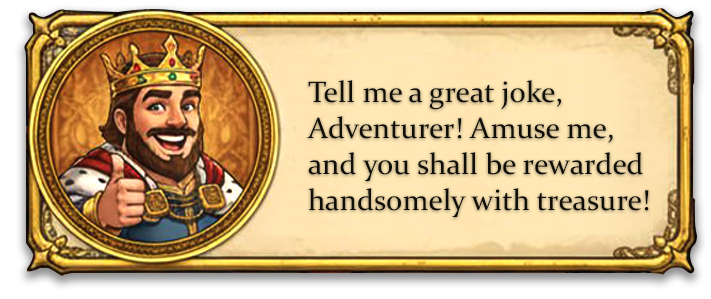
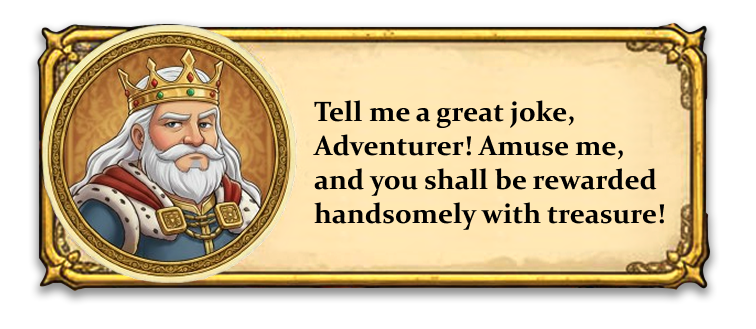
sdv

diff --git a/components/Hero2.js b/components/Hero2.js
@@ -8,6 +8,10 @@ import { ToastContainer, toast } from "react-toastify";
 // import { waitForTransactionReceipt } from "wagmi/actions";
 import { useWaitForTransactionReceipt } from "wagmi";
 import JokesTitle from "../public/assets/JokesTitle.png";
+import JokesTitleBad from "../public/assets/JokesTitleBad.png";
+import JokesTitleFunny from "../public/assets/JokesTitleFunny.png";
+import JokesTitleGood from "../public/assets/JokesTitleGood.png";
+import JokesTitleOkey from "../public/assets/JokesTitleOkey.png";
 import Image from "next/image";
 import JokesResult from "../public/assets/JokesResult.png";
 import StartButton from "../public/assets/SubmitButton.png";
@@ -49,6 +53,7 @@ export default function Hero() {
 	const tokenAddress = "0xAad8792DdDbE35e49D3E7b39359B6cBBDF712f0f";
 	const dispatch = useDispatch();
 	const [jokes, setJokes] = useState("");
+	const [titleImage, setTitleImage] = useState(JokesTitle);
 
 	const { data: tokenData } = useToken({
 		address: tokenAddress,
@@ -133,7 +138,7 @@ export default function Hero() {
 				toast.dark("Transaction failed on-chain.");
 			}
 		} catch (err) {
-			toast.dark(`Error: ${err.message || err}`);
+			toast.dark(`Transaction Failed`);
 		} finally {
 			setIsMinting(false);
 		}
@@ -149,6 +154,7 @@ export default function Hero() {
 		console.log(resp);
 		if (Number(resp.rating) < 5) {
 			toast.dark("Your joke is bad");
+			setTitleImage(JokesTitleBad);
 		} else if (
 			Number(resp.rating) === 5 ||
 			Number(resp.rating) === 7 ||
@@ -156,13 +162,18 @@ export default function Hero() {
 		) {
 			toast.dark("Your joke is okay");
 			sendTokenToMe("25");
+			setTitleImage(JokesTitleOkey);
 		} else if (Number(resp.rating) === 8 || Number(resp.rating) === 9) {
 			toast.dark("Your joke is good");
 			sendTokenToMe("100");
+			setTitleImage(JokesTitleGood);
 		} else {
 			toast.dark("Your joke is very funny!");
 			sendTokenToMe("300");
+			setTitleImage(JokesTitleFunny);
 		}
+
+		setJokes("");
 	}
 
 	return (
@@ -177,7 +188,7 @@ export default function Hero() {
 				className='flex flex-col items-center justify-center gap-6 w-full'
 			>
 				<Image
-					src={JokesTitle}
+					src={titleImage}
 					alt='Jokes title'
 					className='h-auto sm:!h-[30vh] w-[100%] sm:w-auto '
 				/>
@@ -186,6 +197,7 @@ export default function Hero() {
 					rows={2}
 					type='text'
 					placeholder='Tell your joke here…'
+					value={jokes}
 					onChange={(e) => setJokes(e.target.value)}
 					className='
             w-full max-w-md

diff --git a/components/Hero3.js b/components/Hero3.js
@@ -151,7 +151,7 @@ export default function Hero() {
 				toast.dark("Transaction failed on-chain.");
 			}
 		} catch (err) {
-			toast.dark(`Error: ${err.message || err}`);
+			toast.dark(`Transaction Failed`);
 		} finally {
 			setIsMinting(false);
 		}
@@ -209,7 +209,7 @@ export default function Hero() {
 				toast.dark("Mint transaction failed");
 			}
 		} catch (e) {
-			toast.dark(`Mint NFT error: ${e.message}`);
+			toast.dark(`Transaction Failed`);
 		} finally {
 			setIsMinting2(false);
 		}
@@ -235,7 +235,7 @@ export default function Hero() {
 			toast.dark(`0.1 HLUSD Sent!..`);
 			setIsMinting3(false);
 		} catch (e) {
-			toast.dark(`Error: ${e.message}`);
+			toast.dark(`Transaction Failed`);
 		}
 	};
 
